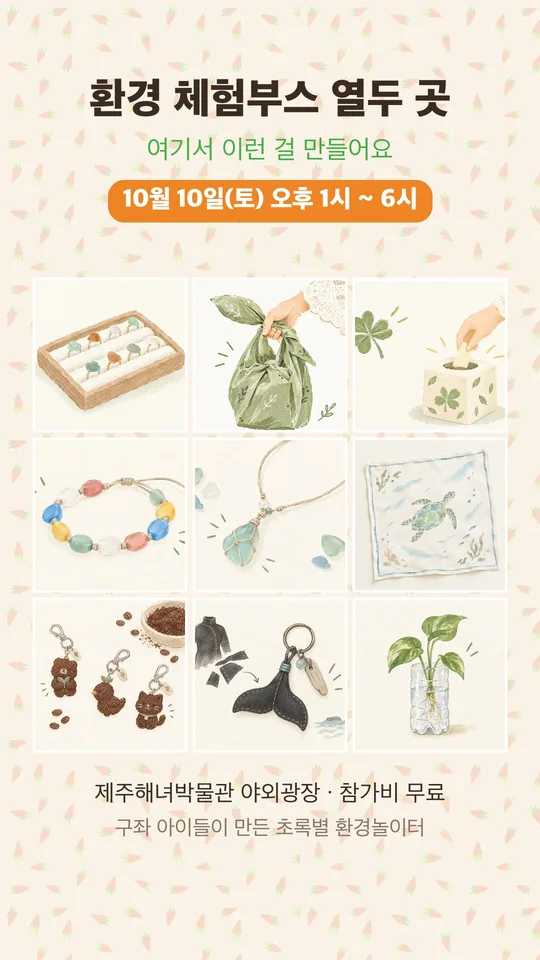
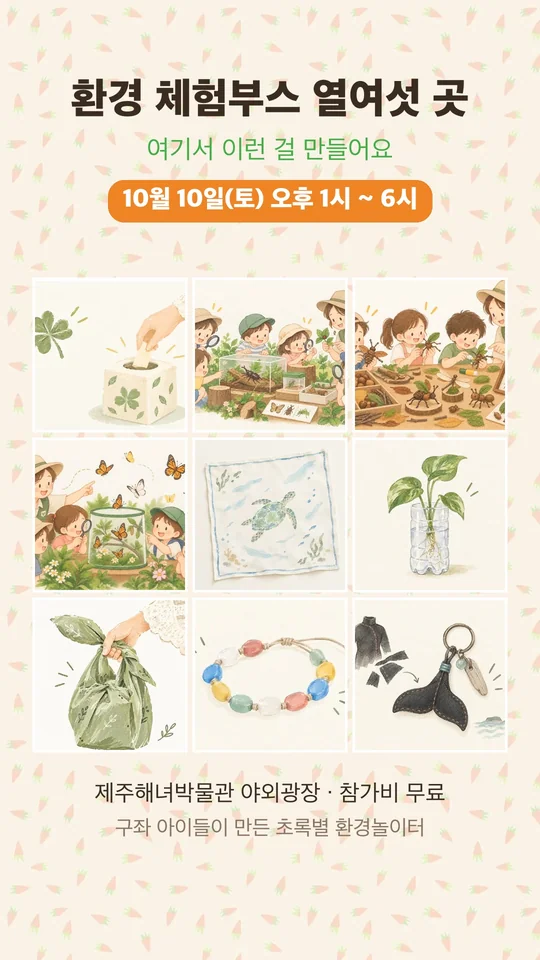
Add files via upload

Changed region(s): [[0.0593, 0.2812, 0.9481, 0.7812], [0.1185, 0.0625, 0.8593, 0.125]]

diff --git a/index.html b/index.html
@@ -703,20 +703,20 @@ dialog.zd .meta span{font-size:16.5px;padding:1px 10px;border-radius:10px 13px 9
     </figure>
     <div class="vids">
       <div class="vwide">
-        <div><div class="yt wide" data-id="25ecK8wi0rg"><img src="img/vid/long_cover.webp" loading="lazy" decoding="async" alt="영상: 초록별 환경놀이터 안내 영상 2분 55초"><span class="play" aria-hidden="true"></span><button type="button" class="ytbtn" aria-label="행사 안내 영상 재생"></button></div>
-          <p class="vcap"><b>3분이면 다 보여요</b> — 지도 · 부스 · 시간표 한 번에</p><button type="button" class="vshare" data-share="video" data-url="https://youtu.be/25ecK8wi0rg" data-title="10월 10일, 구좌에서 만나요 — 초록별 환경놀이터 안내 영상">🔗 이 영상 공유</button></div>
+        <div><div class="yt wide" data-id="zoOiQUeyugg"><img src="img/vid/long_cover.webp" loading="lazy" decoding="async" alt="영상: 초록별 환경놀이터 안내 영상 3분 3초"><span class="play" aria-hidden="true"></span><button type="button" class="ytbtn" aria-label="행사 안내 영상 재생"></button></div>
+          <p class="vcap"><b>3분이면 다 보여요</b> — 지도 · 부스 · 시간표 한 번에</p><button type="button" class="vshare" data-share="video" data-url="https://youtu.be/zoOiQUeyugg" data-title="10월 10일, 구좌에서 만나요 — 초록별 환경놀이터 안내 영상">🔗 이 영상 공유</button></div>
         <div><div class="yt wide" data-id="SXNGGDr3BF8"><img src="https://i.ytimg.com/vi/SXNGGDr3BF8/maxresdefault.jpg" onerror="this.onerror=null;this.src='https://i.ytimg.com/vi/SXNGGDr3BF8/hqdefault.jpg'" alt="영상: 아이들이 부르는 밭길 따라 돌담 따라 준비 스케치"><span class="play" aria-hidden="true"></span><button type="button" class="ytbtn" aria-label="준비 스케치 영상 재생"></button></div>
           <p class="vcap">우리 동네 노래 「밭길 따라 돌담 따라」와 함께한 여름</p><button type="button" class="vshare" data-share="video" data-url="https://youtu.be/SXNGGDr3BF8" data-title="구좌 아이들이 만든 초록별 환경놀이터 준비 스케치">🔗 이 영상 공유</button></div>
       </div>
       <div class="vshorts">
-        <div><div class="yt tall" data-id="OOz-EQfkDLk"><img src="img/vid/s1_cover.webp" loading="lazy" decoding="async" alt="쇼츠: 행사장 지도 먼저 보고 오세요"><span class="play" aria-hidden="true"></span><button type="button" class="ytbtn" aria-label="행사장 지도 먼저 보고 오세요 재생"></button></div>
-          <p class="vcap">행사장 지도, 25초면 다 보여요</p><button type="button" class="vshare" data-share="video" data-url="https://youtube.com/shorts/OOz-EQfkDLk" data-title="행사장 지도 먼저 보고 오세요">🔗 이 영상 공유</button></div>
+        <div><div class="yt tall" data-id="idBJbWQV554"><img src="img/vid/s1_cover.webp" loading="lazy" decoding="async" alt="쇼츠: 행사장 지도 먼저 보고 오세요"><span class="play" aria-hidden="true"></span><button type="button" class="ytbtn" aria-label="행사장 지도 먼저 보고 오세요 재생"></button></div>
+          <p class="vcap">행사장 지도, 25초면 다 보여요</p><button type="button" class="vshare" data-share="video" data-url="https://youtube.com/shorts/idBJbWQV554" data-title="행사장 지도 먼저 보고 오세요">🔗 이 영상 공유</button></div>
         <div><div class="yt tall" data-id="9NdG_tY7APk"><img src="img/vid/s2_cover.webp" loading="lazy" decoding="async" alt="쇼츠: 이거, 다 아이들이 만들었어요"><span class="play" aria-hidden="true"></span><button type="button" class="ytbtn" aria-label="이거, 다 아이들이 만들었어요 재생"></button></div>
           <p class="vcap">이거, 다 아이들이 만들었어요</p><button type="button" class="vshare" data-share="video" data-url="https://youtube.com/shorts/9NdG_tY7APk" data-title="이거, 다 아이들이 만들었어요">🔗 이 영상 공유</button></div>
-        <div><div class="yt tall" data-id="U75q8OFvGaM"><img src="img/vid/s3_cover.webp" loading="lazy" decoding="async" alt="쇼츠: 환경 체험부스 열두 곳"><span class="play" aria-hidden="true"></span><button type="button" class="ytbtn" aria-label="환경 체험부스 열두 곳 재생"></button></div>
-          <p class="vcap">환경 체험부스 열두 곳, 뭘 만드냐면요</p><button type="button" class="vshare" data-share="video" data-url="https://youtube.com/shorts/U75q8OFvGaM" data-title="환경 체험부스 열두 곳">🔗 이 영상 공유</button></div>
-        <div><div class="yt tall" data-id="w9TQUkb_QO8"><img src="img/vid/s4_cover.webp" loading="lazy" decoding="async" alt="쇼츠: 음식 체험부스 일곱 곳"><span class="play" aria-hidden="true"></span><button type="button" class="ytbtn" aria-label="음식 체험부스 일곱 곳 재생"></button></div>
-          <p class="vcap">자전거 타고 주스 만들기 · 음식 체험 전부 무료</p><button type="button" class="vshare" data-share="video" data-url="https://youtube.com/shorts/w9TQUkb_QO8" data-title="음식 체험부스 일곱 곳">🔗 이 영상 공유</button></div>
+        <div><div class="yt tall" data-id="F4oGid_cLtQ"><img src="img/vid/s3_cover.webp" loading="lazy" decoding="async" alt="쇼츠: 환경 체험부스 열여섯 곳"><span class="play" aria-hidden="true"></span><button type="button" class="ytbtn" aria-label="환경 체험부스 열여섯 곳 재생"></button></div>
+          <p class="vcap">환경 체험부스 열여섯 곳, 뭘 만드냐면요</p><button type="button" class="vshare" data-share="video" data-url="https://youtube.com/shorts/F4oGid_cLtQ" data-title="환경 체험부스 열여섯 곳">🔗 이 영상 공유</button></div>
+        <div><div class="yt tall" data-id="kwrJIyQEMZw"><img src="img/vid/s4_cover.webp" loading="lazy" decoding="async" alt="쇼츠: 음식 체험부스 여덟 곳"><span class="play" aria-hidden="true"></span><button type="button" class="ytbtn" aria-label="음식 체험부스 여덟 곳 재생"></button></div>
+          <p class="vcap">자전거 타고 주스 만들기 · 음식 체험 여덟 곳 전부 무료</p><button type="button" class="vshare" data-share="video" data-url="https://youtube.com/shorts/kwrJIyQEMZw" data-title="음식 체험부스 여덟 곳">🔗 이 영상 공유</button></div>
         <div><div class="yt tall" data-id="5Sv0ph42FjE"><img src="https://i.ytimg.com/vi/5Sv0ph42FjE/oardefault.jpg" onerror="this.onerror=null;this.src='https://i.ytimg.com/vi/5Sv0ph42FjE/hqdefault.jpg'" alt="쇼츠: 버려진 골판지가 놀이터가 되기까지"><span class="play" aria-hidden="true"></span><button type="button" class="ytbtn" aria-label="버려진 골판지가 놀이터가 되기까지 재생"></button></div>
           <p class="vcap">버려진 골판지가 놀이터가 되기까지</p><button type="button" class="vshare" data-share="video" data-url="https://youtube.com/shorts/5Sv0ph42FjE" data-title="버려진 골판지가 놀이터가 되기까지">🔗 이 영상 공유</button></div>
       </div>
